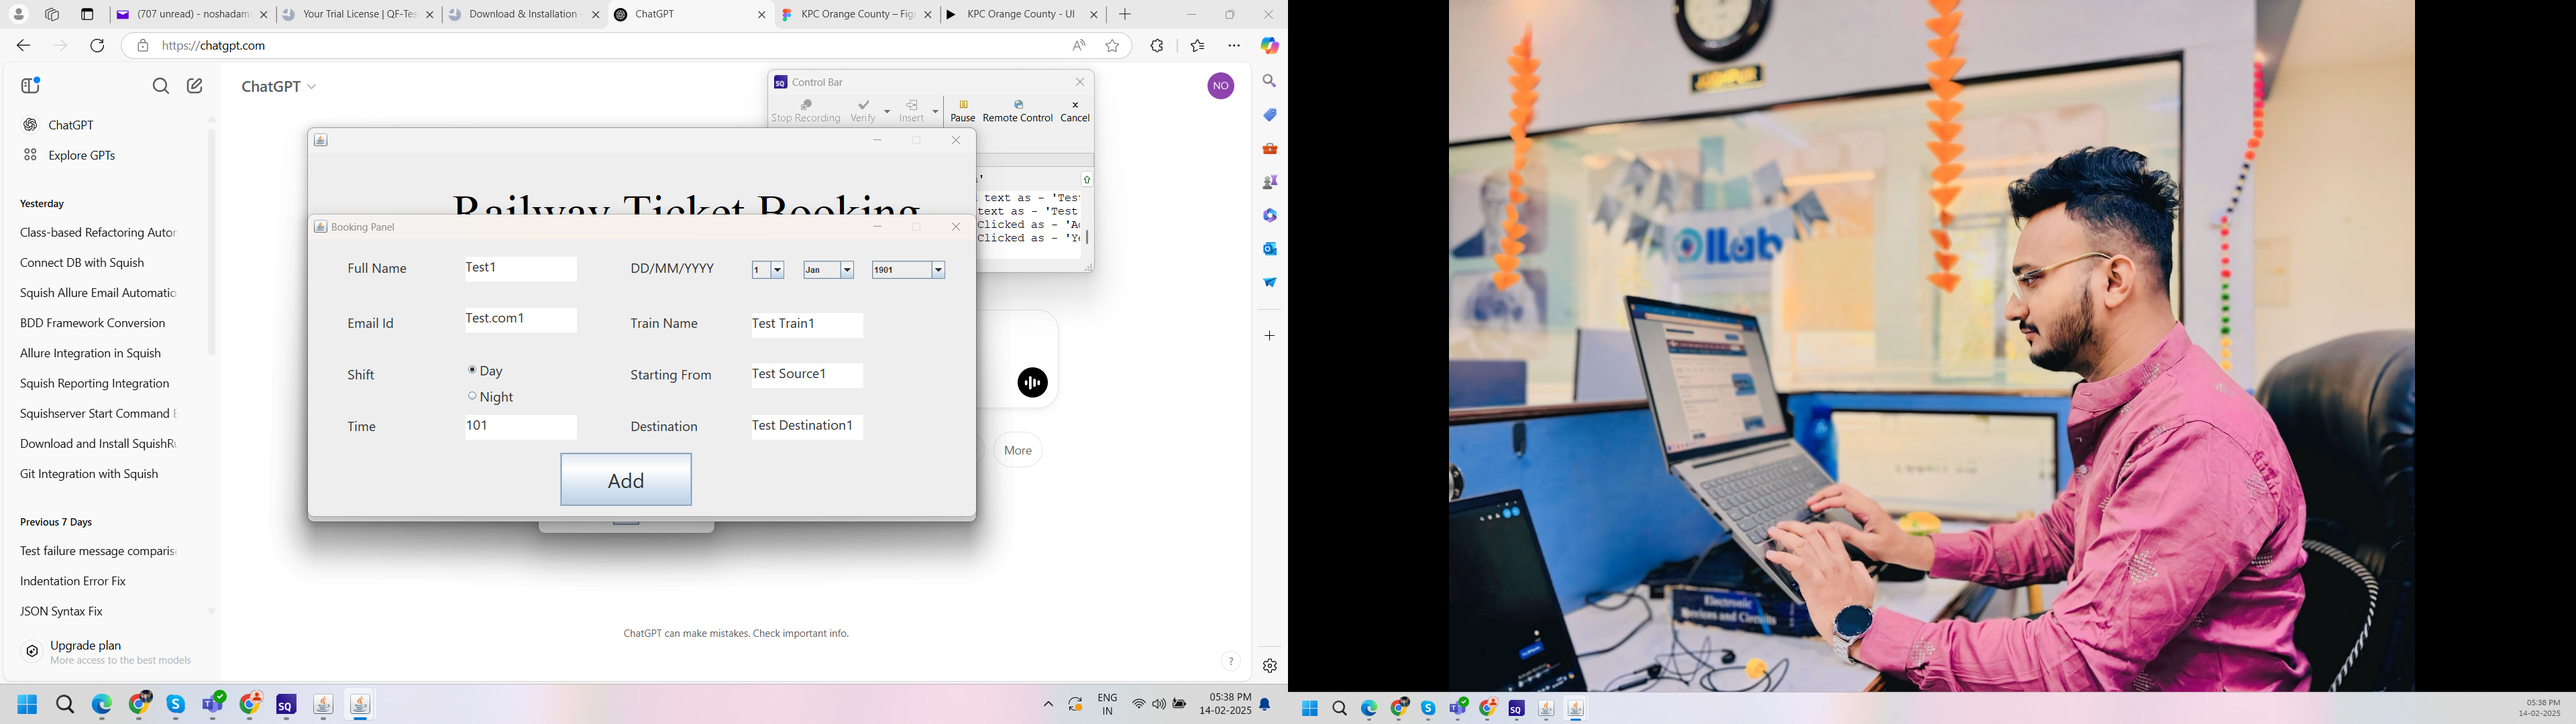
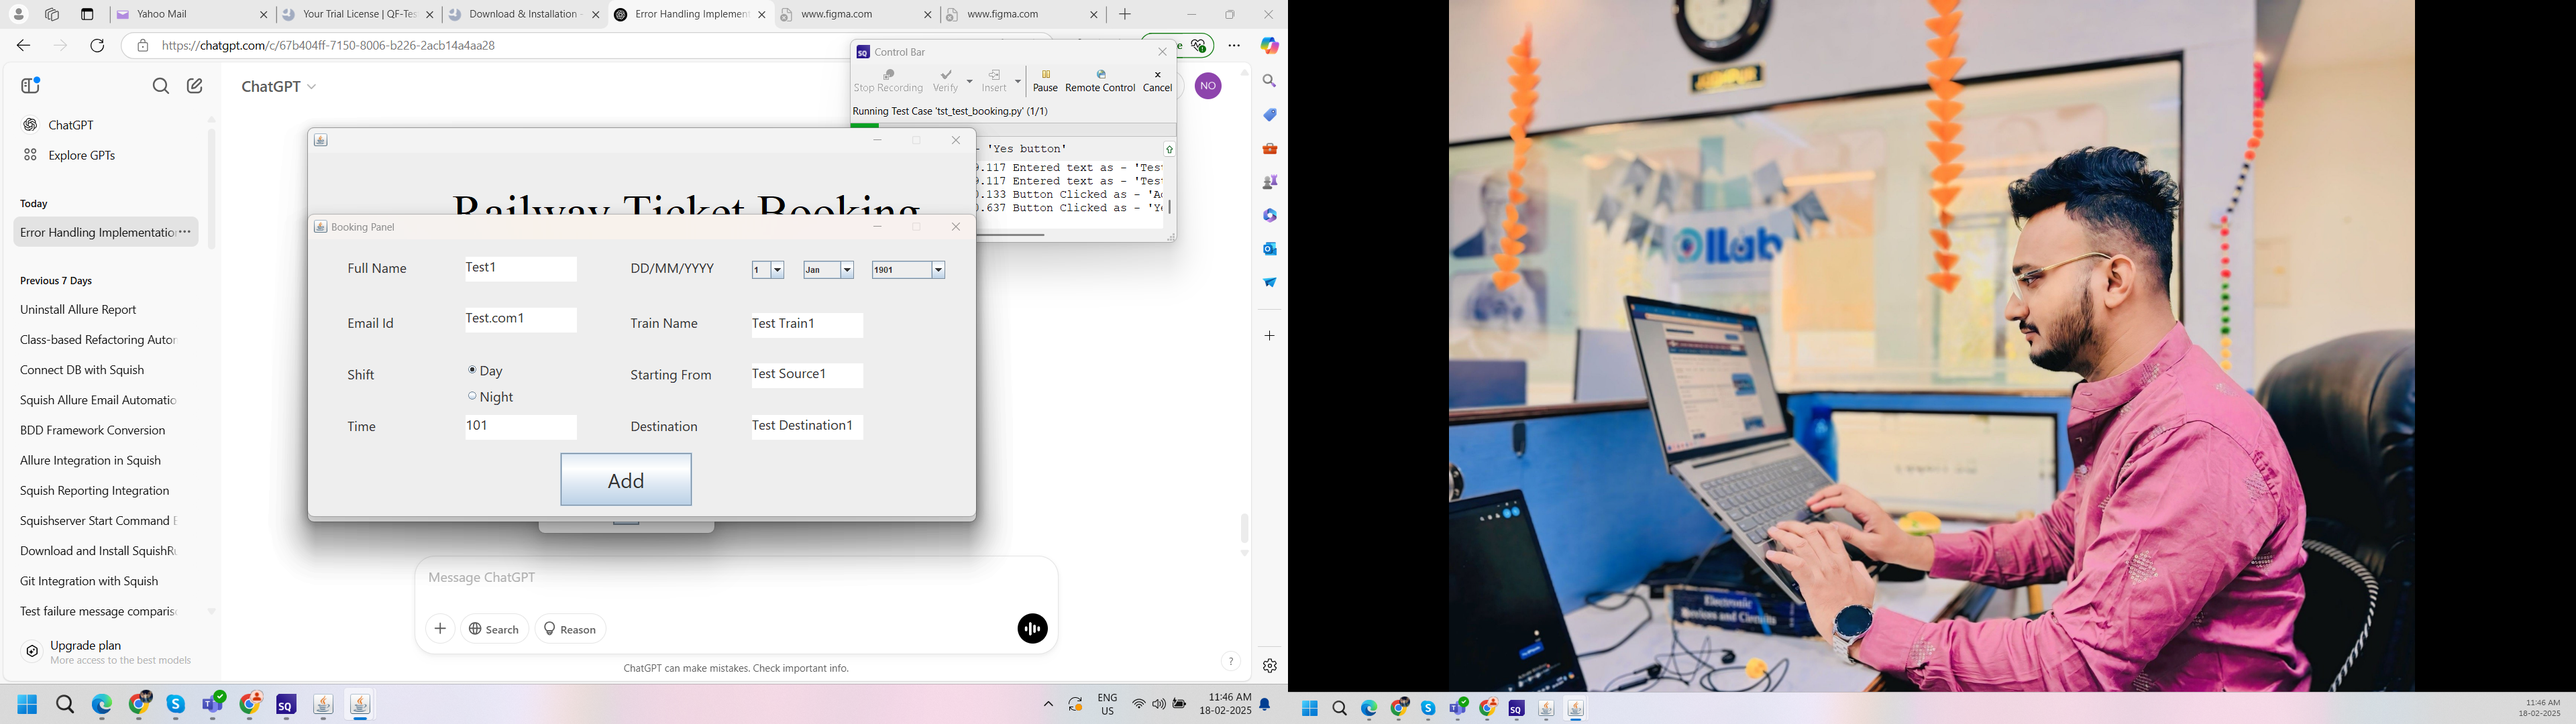
Locator file moved to global script work

diff --git a/Scripts/CommonFunctions/CommonFunctions.py b/Scripts/CommonFunctions/CommonFunctions.py
@@ -3,27 +3,68 @@ import json
 from squish import *
 import sys
 import os
+source(findFile("scripts", "GVariables.py"))
 
+
+def data_load(FileName):
+    json_file_path = FileName
+    
+    with open(json_file_path, "r", encoding="utf-8") as file:
+        data = json.load(file)
+        return data
+    
 def launch_application(AppName):
-    # Start the application
-    startApplication(AppName)
-    snooze(0.3)
-    test.log("App Launch Successfully")
+    try:
+        # Start the application
+        startApplication(AppName)
+        snooze(0.3)
+        test.log("App Launch Successfully")
+    except Exception as e:
+        screenshot_folder = r"C:\Users\SpanIdea\OneDrive\Desktop\Squish Automation\Reports\screenshot_folder"
+        screenshot_path = os.path.join(screenshot_folder, "App_Launch_Failed.png")
+        saveDesktopScreenshot(screenshot_path)
+        test.fatal(f"Error occurred while launching the application: {e}")
+        raise
+
     
 def Enter_Text(Location,Value):
-    type(waitForObject(Location), Value)
-    test.log(f"Entered text as - '{Value}'")
+    try:
+        type(waitForObject(Location), Value)
+        test.log(f"Entered text as - '{Value}'")
+    except Exception as e:
+        screenshot_folder = r"C:\Users\SpanIdea\OneDrive\Desktop\Squish Automation\Reports\screenshot_folder"
+        screenshot_path = os.path.join(screenshot_folder, "Step_Failed.png")
+        saveDesktopScreenshot(screenshot_path)
+        test.fatal(f"Step Failed: {e}")
+        raise
     
 def Click(Location,Name):
-    mouseClick(waitForObjectExists(Location))
-    test.log(f"Button Clicked as - '{Name}'")
-    
+    try:
+        mouseClick(waitForObjectExists(Location))
+        test.log(f"Button Clicked as - '{Name}'")
+    except Exception as e:
+        screenshot_folder = r"C:\Users\SpanIdea\OneDrive\Desktop\Squish Automation\Reports\screenshot_folder"
+        screenshot_path = os.path.join(screenshot_folder, "Step_Failed.png")
+        saveDesktopScreenshot(screenshot_path)
+        test.fatal(f"Step Failed:: {e}")
+        raise
+        
 def Text_Verification(Location,Expected_Message):
-    Actual_Message = waitForObjectExists(Location).text
-    test.log(f"{Actual_Message}")
+    try: 
+        Actual_Message = waitForObjectExists(Location).text
+        test.log(f"{Actual_Message}")
 
-    if Expected_Message in Actual_Message:
-        test.passes("Test Passed")
-    else:
-        test.log(f"Test Failed: Expected '{Expected_Message}', but got '{Actual_Message}'"); saveDesktopScreenshot("FailedScreen.png"); test.fail("Test Failed")
-    
+        if Expected_Message in Actual_Message:
+            test.passes("Test Passed")
+        else:
+            test.log(f"Test Failed: Expected '{Expected_Message}', but got '{Actual_Message}'");
+            screenshot_folder = r"C:\Users\SpanIdea\OneDrive\Desktop\Squish Automation\Reports\screenshot_folder"
+            screenshot_path = os.path.join(screenshot_folder, "Assertion_Failed.png")
+            saveDesktopScreenshot(screenshot_path) 
+            test.fail("Test Failed")
+    except Exception as e:
+        screenshot_folder = r"C:\Users\SpanIdea\OneDrive\Desktop\Squish Automation\Reports\screenshot_folder"
+        screenshot_path = os.path.join(screenshot_folder, "Assertion_Failed_Locator.png")
+        saveDesktopScreenshot(screenshot_path)
+        test.fatal(f"Assertion Failed due to locator: {e}")
+        raise

diff --git a/Scripts/FunctionFile/BookTicket.py b/Scripts/FunctionFile/BookTicket.py
@@ -4,56 +4,42 @@ from squish import *
 import sys
 import os
 
-import names
-import BookingTicketLocators
+source(findFile("scripts", "BookingTicketLocator.py"))
 
 
 def fill_booking_form(data):
     # Fill out the booking form with data
-    Click(BookingTicketLocators.book_Tickets,"Booking button")
+    Click(book_Tickets,"Booking button")
     
-    Enter_Text(BookingTicketLocators.Full_Name,data["Full Name"])
+    Enter_Text(Full_Name,data["Full Name"])
     
-    Enter_Text(BookingTicketLocators.Email_Id,data["Email"])
+    Enter_Text(Email_Id,data["Email"])
     
-    Click(BookingTicketLocators.Day_RadioButton," Radio button - Shift - Day")
+    Click(Day_RadioButton," Radio button - Shift - Day")
     
-    Enter_Text(BookingTicketLocators.Time,data["Time"])
+    Enter_Text(Time,data["Time"])
     
-    Enter_Text(BookingTicketLocators.Train_Name,data["Train Name"])
+    Enter_Text(Train_Name,data["Train Name"])
     
-    Enter_Text(BookingTicketLocators.Starting_From,data["Starting From"])
+    Enter_Text(Starting_From,data["Starting From"])
     
-    Enter_Text(BookingTicketLocators.Destination,data["Destination"])
+    Enter_Text(Destination,data["Destination"])
     
-    Click(BookingTicketLocators.Add_Button,"Add button")
     
-    Click(BookingTicketLocators.Yes_Button,"Yes button")
+def Save_Booking(data):
     
-    Text_Verification(BookingTicketLocators.message_Ticket_is_booked_sucessfully,data["Expected Message"])
+    Click(Add_Button,"Add button")
+    
+    Click(Yes_Button,"Yes button")
+    
+    Text_Verification(message_Ticket_is_booked_sucessfully,data["Expected Message"])
 
 
-def Cancle_button_Working(data):
+def Cancel_button_Working():
     
-    Click(BookingTicketLocators.book_Tickets,"Booking button")
+    Click(Add_Button,"Add button")
     
-    Enter_Text(BookingTicketLocators.Full_Name,data["Full Name"])
-    
-    Enter_Text(BookingTicketLocators.Email_Id,data["Email"])
-    
-    Click(BookingTicketLocators.Day_RadioButton," Radio button - Shift - Day")
-    
-    Enter_Text(BookingTicketLocators.Time,data["Time"])
-    
-    Enter_Text(BookingTicketLocators.Train_Name,data["Train Name"])
-    
-    Enter_Text(BookingTicketLocators.Starting_From,data["Starting From"])
-    
-    Enter_Text(BookingTicketLocators.Destination,data["Destination"])
-    
-    Click(BookingTicketLocators.Add_Button,"Add button")
-    
-    Click(BookingTicketLocators.No_Button,"No button")
+    Click(No_Button,"No button")
     
     test.passes("Test Passed")
     

diff --git a/Scripts/FunctionFile/Login.py b/Scripts/FunctionFile/Login.py
@@ -3,18 +3,19 @@ import json
 from squish import *
 import sys
 import os
-import LoginLocators
+
+source(findFile("scripts", "LoginLocator.py"))
 
 
 def LoginFunctionlity(data):
     
-    Click(LoginLocators.admin_Login,"Booking button")
+    Click(admin_Login,"Booking button")
     
-    Enter_Text(LoginLocators.Admin_ID,data["Admin ID"])
+    Enter_Text(Admin_ID,data["Admin ID"])
     
-    Enter_Text(LoginLocators.Password,data["Password"])
+    Enter_Text(Password,data["Password"])
     
-    Click(LoginLocators.Login,"Login Button")
+    Click(Login,"Login Button")
     
-    Text_Verification(LoginLocators.Wrong_Username_Password,data["Expected Message"])
+    Text_Verification(Wrong_Username_Password,data["Expected Message"])
     

diff --git a/Suite File/suite_SquishRailwayJavaApplicationSanity/tst_BookingTicketTest/test.py b/Suite File/suite_SquishRailwayJavaApplicationSanity/tst_BookingTicketTest/test.py
@@ -19,17 +19,8 @@ def main():
             launch_application(Railway)  
             fill_booking_form(ticket)
             Save_Booking(ticket)
-            
-    def test_cancel_button():    
-        for ticket1 in data["CancleButton"]:
-            
-            # Execute actions
-            launch_application(Railway)
-            fill_booking_form(ticket1)
-            Cancel_button_Working()  
     
     test_booking_submit()
-    test_cancel_button()
             
 
          

diff --git a/Suite File/suite_SquishRailwayJavaApplication/tst_test_Login.py/test.py b/Suite File/suite_SquishRailwayJavaApplication/tst_test_Login.py/test.py
@@ -5,11 +5,8 @@ source(findFile("scripts", "CommonFunctions.py"))
 source(findFile("scripts", "GVariables.py"))
 
 def main():
-    # Load test data from JSON file
-    json_file_path = LoginJSON
     
-    with open(json_file_path, "r", encoding="utf-8") as file:
-        data = json.load(file)
+    data = data_load(LoginJSON)
     
     def test_login():
     # Loop through the tickets data

diff --git a/Suite File/suite_SquishRailwayJavaApplicationSanity/shared/scripts/names.py b/Suite File/suite_SquishRailwayJavaApplicationSanity/shared/scripts/names.py
@@ -1,0 +1,4 @@
+# encoding: UTF-8
+
+from objectmaphelper import *
+
